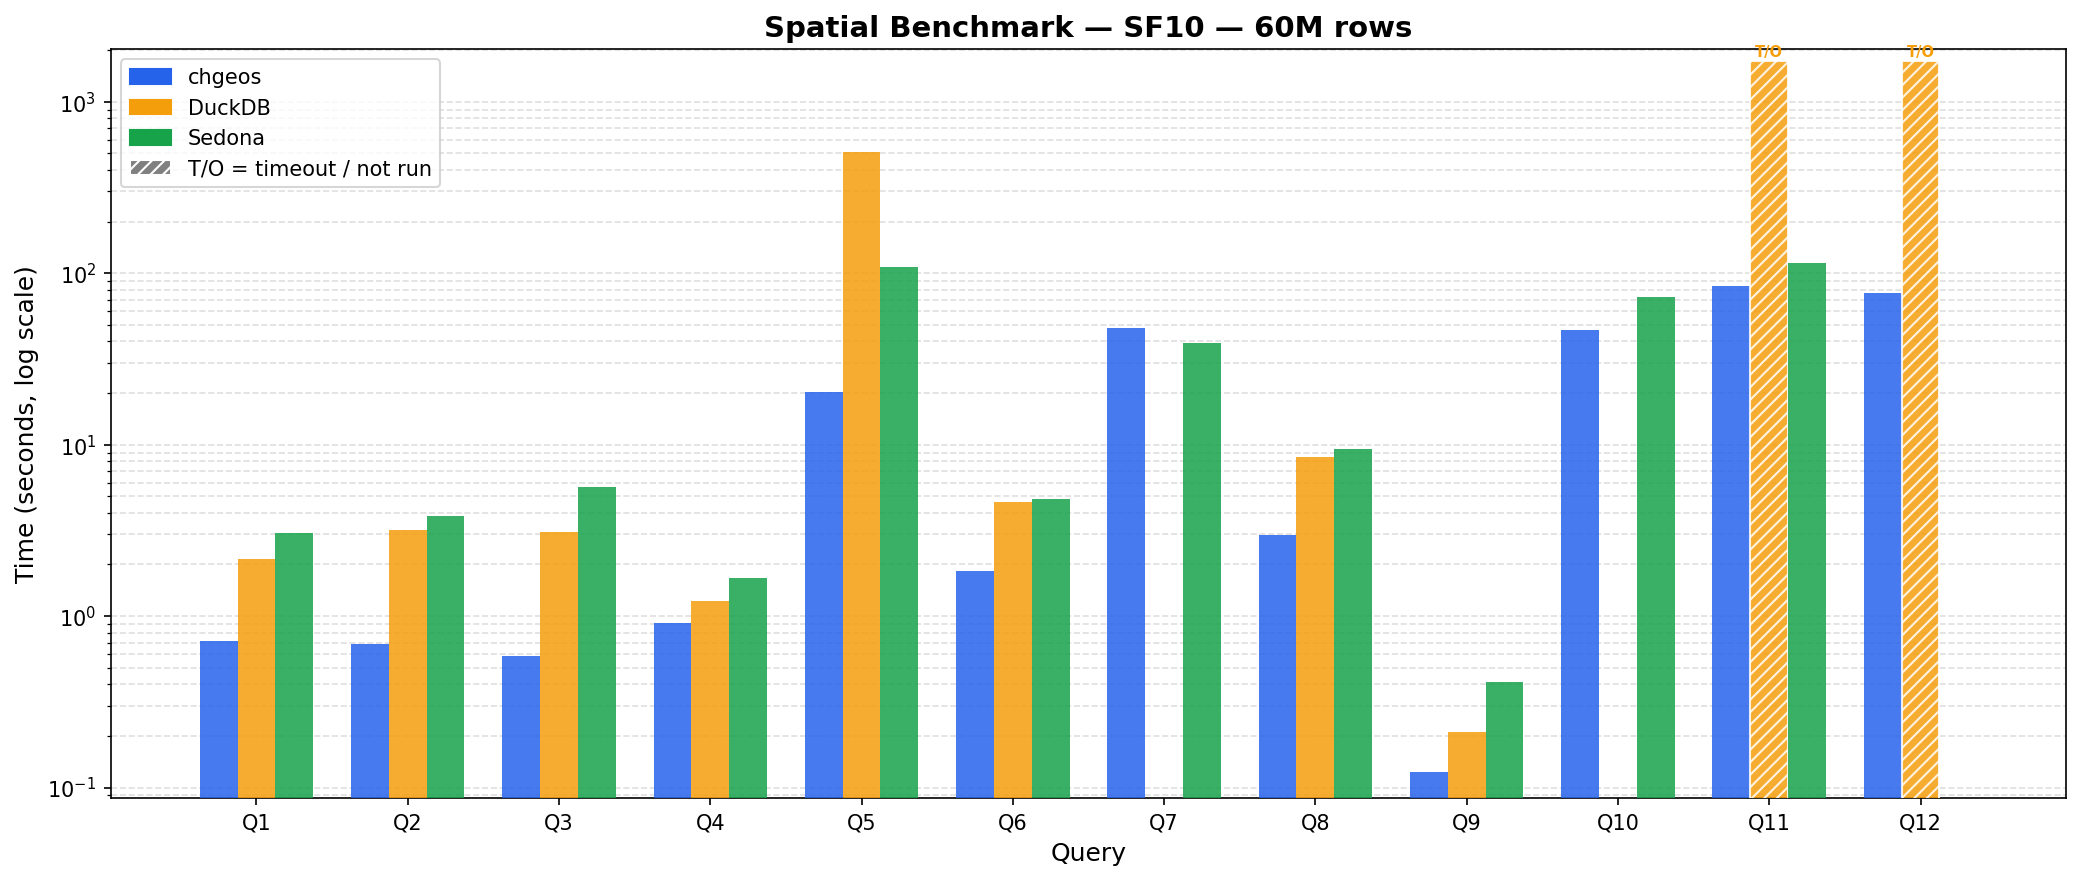
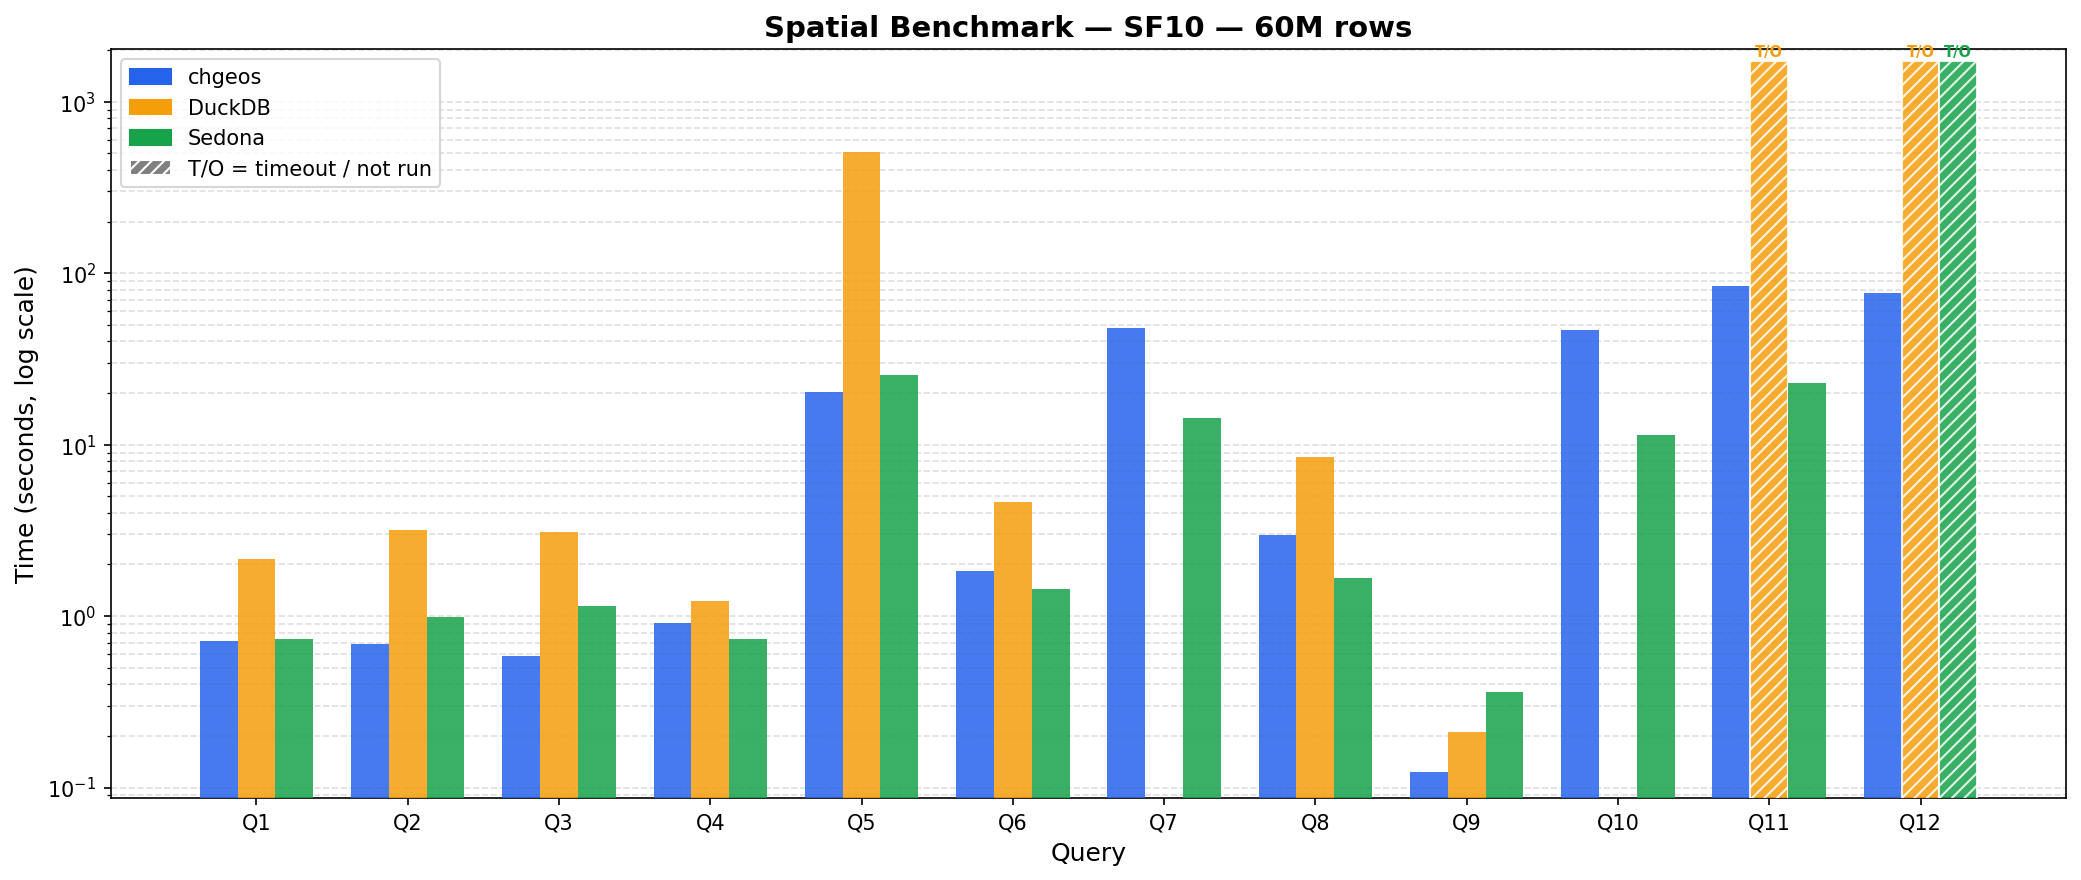
Update Sedona SF10 results (new run 2026-04-21)
Sedona SF10 times are dramatically faster than the previous recording:
Q1: 3.06s→0.74s, Q4: 1.67s→0.74s, Q5: 108s→25.35s, Q7: 39.3s→14.23s,
Q8: 9.49s→1.67s, Q10: 72.3s→11.45s, Q11: 115s→22.94s, Q12: not_run→TIMEOUT

SF10 wins updated: chgeos 6, DuckDB 0, Sedona 6

diff --git a/BENCHMARK.md b/BENCHMARK.md
@@ -8,7 +8,7 @@ and Apache Sedona (SedonaDB) on the spatial benchmark suite.
 **Timeout:** 300 s (chgeos), 120 s (Sedona), 600 s (DuckDB SF10)  
 **chgeos version:** 2026-04-21 (centroid k-d tree kNN; joinBlock batch-candidates rewrite)  
 **DuckDB version:** v1.5.2  
-**Sedona version:** recorded 2026-04-19
+**Sedona version:** recorded 2026-04-21 (SF1: 2026-04-19)
 
 Note: it's running with CraneLift optimization disabled. CraneLift fix
 https://github.com/bytecodealliance/wasmtime/pull/12841 is not in ClickHouse
@@ -45,20 +45,20 @@ yet. But it won't make _much_ difference. Probably.
 
 | Query | Description                        | chgeos   | DuckDB   | Sedona   | Winner   |
 |-------|------------------------------------|----------|----------|----------|----------|
-| Q1    | Point-in-radius filter             | 0.713 s  | 2.15 s   | 3.06 s   | chgeos   |
-| Q2    | Count trips in county polygon      | 0.688 s  | 3.20 s   | 3.83 s   | chgeos   |
-| Q3    | Monthly stats in bbox+buffer       | 0.582 s  | 3.10 s   | 5.70 s   | chgeos   |
-| Q4    | Zone distribution (top-1000 tips)  | 0.915 s  | 1.22 s   | 1.67 s   | chgeos   |
-| Q5    | Convex hull area per customer/month| 20.17 s  | 508 s    | 108 s    | chgeos   |
-| Q6    | Zone stats for bbox-intersect zones| 1.845 s  | 4.66 s   | 4.82 s   | chgeos   |
-| Q7    | Detour ratio (all trips)           | 47.69 s  | —        | 39.3 s   | Sedona   |
-| Q8    | Nearby pickups per building        | 2.978 s  | 8.51 s   | 9.49 s   | chgeos   |
-| Q9    | Building conflation via IoU        | 0.124 s  | 0.21 s   | 0.41 s   | chgeos   |
-| Q10   | Zone avg duration/distance         | 46.60 s  | —        | 72.3 s   | chgeos   |
-| Q11   | Cross-zone trip count              | 84.64 s  | TIMEOUT  | 115 s    | chgeos   |
-| Q12   | 5 nearest buildings per trip (kNN) | 76.6 s   | TIMEOUT  | —        | chgeos   |
+| Q1    | Point-in-radius filter             | 0.713 s  | 2.15 s   | 0.74 s   | chgeos   |
+| Q2    | Count trips in county polygon      | 0.688 s  | 3.20 s   | 0.99 s   | chgeos   |
+| Q3    | Monthly stats in bbox+buffer       | 0.582 s  | 3.10 s   | 1.15 s   | chgeos   |
+| Q4    | Zone distribution (top-1000 tips)  | 0.915 s  | 1.22 s   | 0.74 s   | Sedona   |
+| Q5    | Convex hull area per customer/month| 20.17 s  | 508 s    | 25.35 s  | chgeos   |
+| Q6    | Zone stats for bbox-intersect zones| 1.845 s  | 4.66 s   | 1.43 s   | Sedona   |
+| Q7    | Detour ratio (all trips)           | 47.69 s  | —        | 14.23 s  | Sedona   |
+| Q8    | Nearby pickups per building        | 2.978 s  | 8.51 s   | 1.67 s   | Sedona   |
+| Q9    | Building conflation via IoU        | 0.124 s  | 0.21 s   | 0.36 s   | chgeos   |
+| Q10   | Zone avg duration/distance         | 46.60 s  | —        | 11.45 s  | Sedona   |
+| Q11   | Cross-zone trip count              | 84.64 s  | TIMEOUT  | 22.94 s  | Sedona   |
+| Q12   | 5 nearest buildings per trip (kNN) | 76.6 s   | TIMEOUT  | TIMEOUT  | chgeos   |
 
-**SF10 wins — chgeos: 11, DuckDB: 0, Sedona: 1**
+**SF10 wins — chgeos: 6, DuckDB: 0, Sedona: 6**
 
 ---
 
@@ -78,13 +78,14 @@ chgeos leads at both scales: 0.027 s at SF1 (vs DuckDB 0.03 s, Sedona 0.29 s) an
 bounding boxes that cover the entire trip dataset. SpatialRTreeJoin accumulates all R-tree
 candidates per joinBlock call and groups them by the side with fewer unique geometries,
 ensuring PreparedGeometry is built once per unique zone per block rather than once per flush.
-This brings Q10 from a crash to 46.6 s and Q11 from timeout to 84.6 s, both beating Sedona.
+This brings Q10 from a crash to 46.6 s and Q11 from timeout to 84.6 s. Sedona handles
+these queries significantly faster (11.45 s and 22.94 s respectively) at this scale.
 
 **Q12 (kNN):** The WASM st_knn function now uses a static 2-D centroid k-d tree
 (bbox centers, zero GEOS allocation) with branch-and-bound search instead of the
 previous expanding-envelope STRtree approach that scanned O(N) buildings per query
 on dense datasets. SF1: 27.25 s → 6.65 s (4×, beats Sedona 15.7 s). SF10: TIMEOUT
-→ 76.6 s. DuckDB times out at both scales; Sedona did not run Q12 at SF10.
+→ 76.6 s. DuckDB times out at both scales; Sedona also times out at SF10.
 
 **Q5 at SF10:** chgeos (20 s) is 5× faster than Sedona (108 s) and 25× faster than
 DuckDB (508 s). The `query_plan_execute_functions_after_sorting=0` hint is required to
